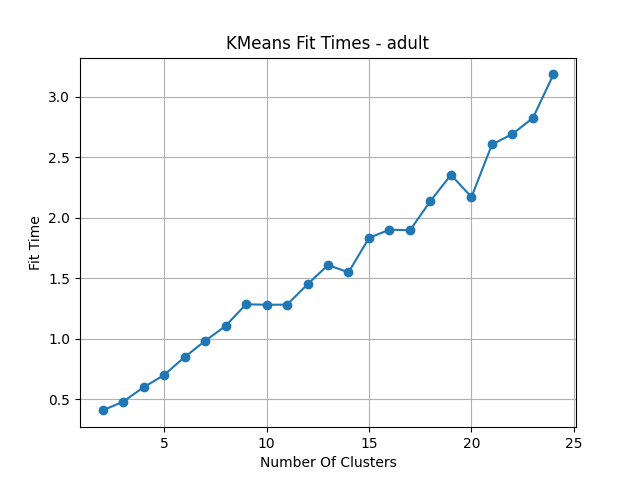
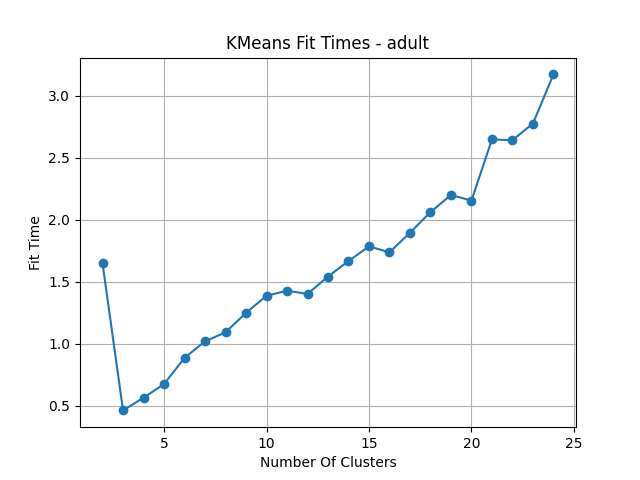
Code updates

Changed region(s): [[0.0625, 0.1562, 0.875, 0.5312], [0.0625, 0.5312, 0.875, 0.875], [0.0625, 0.8125, 0.125, 0.875]]

diff --git a/HW3/NeuralNetwork.py b/HW3/NeuralNetwork.py
@@ -152,6 +152,8 @@ if __name__ == '__main__':
     print('GRP Grid Search: ', grid_search_grp)
     print('MBDL Grid Search: ', grid_search_mbdl)
     '''
+    kmeans = KMeans(n_clusters=3, init='k-means++', random_state=random_seed)
+    em = GaussianMixture(n_components=3, random_state=random_seed)
     kmeans_pca = KMeans(n_clusters=3, init='k-means++', random_state=random_seed)
     kmeans_ica = KMeans(n_clusters=3, init='k-means++', random_state=random_seed)
     kmeans_grp = KMeans(n_clusters=3, init='k-means++', random_state=random_seed)
@@ -161,36 +163,44 @@ if __name__ == '__main__':
     em_grp = GaussianMixture(n_components=3, random_state=random_seed)
     em_mbdl = GaussianMixture(n_components=7, random_state=random_seed)
 
+    kmeans.fit(X_train_1)
     kmeans_pca.fit(X_train_1_pca)
     kmeans_ica.fit(X_train_1_ica)
     kmeans_grp.fit(X_train_1_grp)
     kmeans_mbdl.fit(X_train_1_mbdl)
 
+    X_train_1_km = kmeans.transform(X_train_1)
     X_train_1_pca_km = kmeans_pca.transform(X_train_1_pca)
     X_train_1_ica_km = kmeans_ica.transform(X_train_1_ica)
     X_train_1_grp_km = kmeans_grp.transform(X_train_1_grp)
     X_train_1_mbdl_km = kmeans_mbdl.transform(X_train_1_mbdl)
 
+    X_test_1_km = kmeans.transform(X_test_1)
     X_test_1_pca_km = kmeans_pca.transform(X_test_1_pca)
     X_test_1_ica_km = kmeans_ica.transform(X_test_1_ica)
     X_test_1_grp_km = kmeans_grp.transform(X_test_1_grp)
     X_test_1_mbdl_km = kmeans_mbdl.transform(X_test_1_mbdl)
 
+    em.fit(X_train_1)
     em_pca.fit(X_train_1_pca)
     em_ica.fit(X_train_1_ica)
     em_grp.fit(X_train_1_grp)
     em_mbdl.fit(X_train_1_mbdl)
 
+    X_train_1_em = em.predict_proba(X_train_1)
     X_train_1_pca_em = em_pca.predict_proba(X_train_1_pca)
     X_train_1_ica_em = em_ica.predict_proba(X_train_1_ica)
     X_train_1_grp_em = em_grp.predict_proba(X_train_1_grp)
     X_train_1_mbdl_em = em_mbdl.predict_proba(X_train_1_mbdl)
 
+    X_test_1_em = em.predict_proba(X_test_1)
     X_test_1_pca_em = em_pca.predict_proba(X_test_1_pca)
     X_test_1_ica_em = em_ica.predict_proba(X_test_1_ica)
     X_test_1_grp_em = em_grp.predict_proba(X_test_1_grp)
     X_test_1_mbdl_em = em_mbdl.predict_proba(X_test_1_mbdl)
 
+    grid_search_km = gridSearch(grid_param, clf, X_train_1_km, y_train_1, 'accuracy', dataset_1)
+    grid_search_em = gridSearch(grid_param, clf, X_train_1_em, y_train_1, 'accuracy', dataset_1)
     grid_search_pca = gridSearch(grid_param, clf, X_train_1_pca, y_train_1, 'accuracy', dataset_1)
     grid_search_ica = gridSearch(grid_param, clf, X_train_1_ica, y_train_1, 'accuracy', dataset_1)
     grid_search_grp = gridSearch(grid_param, clf, X_train_1_grp, y_train_1, 'accuracy', dataset_1)
@@ -205,6 +215,8 @@ if __name__ == '__main__':
     grid_search_mbdl_km = gridSearch(grid_param, clf, X_train_1_mbdl_km, y_train_1, 'accuracy', dataset_1)
 
     print('----------------------------------------')
+    print('KMeans Grid Search: ', grid_search_km)
+    print('EM Grid Search: ', grid_search_em)
     print('PCA Grid Search: ', grid_search_pca)
     print('ICA Grid Search: ', grid_search_ica)
     print('GRP Grid Search: ', grid_search_grp)
@@ -235,7 +247,8 @@ if __name__ == '__main__':
         best_clf_grp_em = clf
         best_clf_mbdl_em = clf
     '''
-
+    best_clf_km = grid_search_km[1]
+    best_clf_em = grid_search_em[1]
     best_clf_pca = grid_search_pca[1]
     best_clf_ica = grid_search_ica[1]
     best_clf_grp = grid_search_grp[1]
@@ -249,6 +262,10 @@ if __name__ == '__main__':
     best_clf_grp_em = grid_search_grp_em[1]
     best_clf_mbdl_em = grid_search_mbdl_em[1]
 
+    y_pred_km, y_pred_train_km, learn_tm_km, query_tm_km, query_tm_train_km, rmse_km, rmse_train_km = mlModel(
+        best_clf_km, X_train_1_km, X_test_1_km, y_train_1, y_test_1)
+    y_pred_em, y_pred_train_em, learn_tm_em, query_tm_em, query_tm_train_em, rmse_em, rmse_train_em = mlModel(
+        best_clf_em, X_train_1_em, X_test_1_em, y_train_1, y_test_1)
     y_pred_pca, y_pred_train_pca, learn_tm_pca, query_tm_pca, query_tm_train_pca, rmse_pca, rmse_train_pca = mlModel(
         best_clf_pca, X_train_1_pca, X_test_1_pca, y_train_1, y_test_1)
     y_pred_ica, y_pred_train_ica, learn_tm_ica, query_tm_ica, query_tm_train_ica, rmse_ica, rmse_train_ica = mlModel(
@@ -276,6 +293,18 @@ if __name__ == '__main__':
     y_pred_mbdl_em, y_pred_train_mbdl_em, learn_tm_mbdl_em, query_tm_mbdl_em, query_tm_train_mbdl_em, rmse_mbdl_em, rmse_train_mbdl_em = mlModel(
         best_clf_mbdl_em, X_train_1_mbdl_em, X_test_1_mbdl_em, y_train_1, y_test_1)
 
+    print('----------------------------------------')
+    print("MLP KMeans Accuracy Dataset 1: In Sample", metrics.accuracy_score(y_train_1, y_pred_train_km))
+    print("MLP KMeans Accuracy Dataset 1: Out Sample", metrics.accuracy_score(y_test_1, y_pred_km))
+    print("MLP KMeans Learning Time Dataset 1:", learn_tm_km)
+    print("MLP KMeans Query Time Dataset 1:", query_tm_km)
+    print('----------------------------------------')
+    print('----------------------------------------')
+    print("MLP EM Accuracy Dataset 1: In Sample", metrics.accuracy_score(y_train_1, y_pred_train_em))
+    print("MLP EM Accuracy Dataset 1: Out Sample", metrics.accuracy_score(y_test_1, y_pred_em))
+    print("MLP EM Learning Time Dataset 1:", learn_tm_em)
+    print("MLP EM Query Time Dataset 1:", query_tm_em)
+    print('----------------------------------------')
     print('----------------------------------------')
     print("MLP PCA Accuracy Dataset 1: In Sample", metrics.accuracy_score(y_train_1, y_pred_train_pca))
     print("MLP PCA Accuracy Dataset 1: Out Sample", metrics.accuracy_score(y_test_1, y_pred_pca))
@@ -343,6 +372,10 @@ if __name__ == '__main__':
     '''
     Car:
 ----------------------------------------
+KMeans Grid Search:  ({'activation': 'tanh', 'alpha': 0.0001, 'hidden_layer_sizes': (50, 100, 50), 'solver': 'adam'}, MLPClassifier(activation='tanh', hidden_layer_sizes=(50, 100, 50),
+              random_state=99), 0.7038887555296458)
+EM Grid Search:  ({'activation': 'tanh', 'alpha': 0.0001, 'hidden_layer_sizes': (50, 50, 50), 'solver': 'sgd'}, MLPClassifier(activation='tanh', hidden_layer_sizes=(50, 50, 50),
+              random_state=99, solver='sgd'), 0.7030623092486541)
 PCA Grid Search:  ({'activation': 'tanh', 'alpha': 0.05, 'hidden_layer_sizes': (50, 50, 50), 'solver': 'adam'}, MLPClassifier(activation='tanh', alpha=0.05, hidden_layer_sizes=(50, 50, 50),
               random_state=99), 0.7502314735434312)
 ICA Grid Search:  ({'activation': 'relu', 'alpha': 0.01, 'hidden_layer_sizes': (50, 100, 50), 'solver': 'adam'}, MLPClassifier(alpha=0.01, hidden_layer_sizes=(50, 100, 50), random_state=99), 0.7088577209286375)
@@ -368,69 +401,83 @@ MBDL EM Grid Search:  ({'activation': 'tanh', 'alpha': 0.0001, 'hidden_layer_siz
               random_state=99, solver='sgd'), 0.7030623092486541)
 ----------------------------------------
 
+----------------------------------------
+MLP KMeans Accuracy Dataset 1: In Sample 0.7030603804797353
+MLP KMeans Accuracy Dataset 1: Out Sample 0.6936416184971098
+MLP KMeans Learning Time Dataset 1: 0.6267304420471191
+MLP KMeans Query Time Dataset 1: 0.0019996166229248047
+----------------------------------------
+----------------------------------------
+MLP EM Accuracy Dataset 1: In Sample 0.7030603804797353
+MLP EM Accuracy Dataset 1: Out Sample 0.6936416184971098
+MLP EM Learning Time Dataset 1: 2.853698968887329
+MLP EM Query Time Dataset 1: 0.0020074844360351562
+----------------------------------------
+----------------------------------------
 MLP PCA Accuracy Dataset 1: In Sample 0.7890818858560794
 MLP PCA Accuracy Dataset 1: Out Sample 0.653179190751445
-MLP PCA Learning Time Dataset 1: 3.0513875484466553
-MLP PCA Query Time Dataset 1: 0.0019996166229248047
+MLP PCA Learning Time Dataset 1: 3.0294907093048096
+MLP PCA Query Time Dataset 1: 0.0020189285278320312
 ----------------------------------------
 MLP ICA Accuracy Dataset 1: In Sample 0.7105045492142267
 MLP ICA Accuracy Dataset 1: Out Sample 0.5703275529865125
-MLP ICA Learning Time Dataset 1: 3.76667857170105
-MLP ICA Query Time Dataset 1: 0.0019669532775878906
+MLP ICA Learning Time Dataset 1: 3.6865408420562744
+MLP ICA Query Time Dataset 1: 0.0019974708557128906
 ----------------------------------------
 MLP GRP Accuracy Dataset 1: In Sample 0.7791563275434243
 MLP GRP Accuracy Dataset 1: Out Sample 0.7552986512524085
-MLP GRP Learning Time Dataset 1: 4.194239854812622
-MLP GRP Query Time Dataset 1: 0.0029997825622558594
+MLP GRP Learning Time Dataset 1: 4.129885673522949
+MLP GRP Query Time Dataset 1: 0.003034830093383789
 ----------------------------------------
 MLP MBDL Accuracy Dataset 1: In Sample 0.6699751861042184
 MLP MBDL Accuracy Dataset 1: Out Sample 0.5240847784200385
-MLP MBDL Learning Time Dataset 1: 0.8454082012176514
-MLP MBDL Query Time Dataset 1: 0.0019979476928710938
+MLP MBDL Learning Time Dataset 1: 0.7987163066864014
+MLP MBDL Query Time Dataset 1: 0.0019693374633789062
 ----------------------------------------
 ----------------------------------------
 MLP PCA KMeans Accuracy Dataset 1: In Sample 0.7030603804797353
 MLP PCA KMeans Accuracy Dataset 1: Out Sample 0.6840077071290944
-MLP PCA KMeans Learning Time Dataset 1: 3.5738158226013184
-MLP PCA KMeans Query Time Dataset 1: 0.0019762516021728516
+MLP PCA KMeans Learning Time Dataset 1: 3.4405906200408936
+MLP PCA KMeans Query Time Dataset 1: 0.0019986629486083984
 ----------------------------------------
 MLP ICA KMeans Accuracy Dataset 1: In Sample 0.7030603804797353
 MLP ICA KMeans Accuracy Dataset 1: Out Sample 0.6936416184971098
-MLP ICA KMeans Learning Time Dataset 1: 0.8703763484954834
-MLP ICA KMeans Query Time Dataset 1: 0.0020363330841064453
+MLP ICA KMeans Learning Time Dataset 1: 0.8563556671142578
+MLP ICA KMeans Query Time Dataset 1: 0.0020003318786621094
 ----------------------------------------
 MLP GRP KMeans Accuracy Dataset 1: In Sample 0.7030603804797353
 MLP GRP KMeans Accuracy Dataset 1: Out Sample 0.6936416184971098
-MLP GRP KMeans Learning Time Dataset 1: 2.3734006881713867
-MLP GRP KMeans Query Time Dataset 1: 0.0009655952453613281
+MLP GRP KMeans Learning Time Dataset 1: 2.2791407108306885
+MLP GRP KMeans Query Time Dataset 1: 0.0010008811950683594
 ----------------------------------------
 MLP MBDL KMeans Accuracy Dataset 1: In Sample 0.7030603804797353
 MLP MBDL KMeans Accuracy Dataset 1: Out Sample 0.6936416184971098
-MLP MBDL KMeans Learning Time Dataset 1: 3.6190075874328613
-MLP MBDL KMeans Query Time Dataset 1: 0.002997875213623047
+MLP MBDL KMeans Learning Time Dataset 1: 3.3492400646209717
+MLP MBDL KMeans Query Time Dataset 1: 0.0019989013671875
 ----------------------------------------
 ----------------------------------------
 MLP PCA EM Accuracy Dataset 1: In Sample 0.7030603804797353
 MLP PCA EM Accuracy Dataset 1: Out Sample 0.6936416184971098
-MLP PCA EM Learning Time Dataset 1: 3.1821773052215576
-MLP PCA EM Query Time Dataset 1: 0.002001047134399414
+MLP PCA EM Learning Time Dataset 1: 3.18721866607666
+MLP PCA EM Query Time Dataset 1: 0.001999378204345703
 ----------------------------------------
 MLP ICA EM Accuracy Dataset 1: In Sample 0.7030603804797353
 MLP ICA EM Accuracy Dataset 1: Out Sample 0.6936416184971098
-MLP ICA EM Learning Time Dataset 1: 1.9503438472747803
-MLP ICA EM Query Time Dataset 1: 0.0020003318786621094
+MLP ICA EM Learning Time Dataset 1: 1.8210444450378418
+MLP ICA EM Query Time Dataset 1: 0.0019991397857666016
 ----------------------------------------
 MLP GRP EM Accuracy Dataset 1: In Sample 0.7030603804797353
 MLP GRP EM Accuracy Dataset 1: Out Sample 0.6936416184971098
-MLP GRP EM Learning Time Dataset 1: 0.9249732494354248
-MLP GRP EM Query Time Dataset 1: 0.0019998550415039062
+MLP GRP EM Learning Time Dataset 1: 0.819000244140625
+MLP GRP EM Query Time Dataset 1: 0.002002716064453125
 ----------------------------------------
 MLP MBDL EM Accuracy Dataset 1: In Sample 0.7030603804797353
 MLP MBDL EM Accuracy Dataset 1: Out Sample 0.6936416184971098
-MLP MBDL EM Learning Time Dataset 1: 3.4931564331054688
-MLP MBDL EM Query Time Dataset 1: 0.002001523971557617
+MLP MBDL EM Learning Time Dataset 1: 3.398866653442383
+MLP MBDL EM Query Time Dataset 1: 0.0020313262939453125
 ----------------------------------------
 
 Process finished with exit code 0
+
     '''
 

diff --git a/HW3/KMeans.py b/HW3/KMeans.py
@@ -158,12 +158,10 @@ def plotScatter(X, y, cluster_size, cluster_centers, title, xlabel, ylabel, save
     plt.title(title)
     plt.xlabel(xlabel)
     plt.ylabel(ylabel)
-    '''
     for i in cluster_size:
         plt.scatter(X[y == i, 0], X[y == i, 1], s=50, marker='o', edgecolor='black', label='cluster ' + str(i))
     plt.scatter(cluster_centers[:, 0], cluster_centers[:, 1], s=250, color='yellow', edgecolor='black', marker='*',
                label='centroids')
-    '''
     plt.legend(loc='best')
     plt.grid()
     plt.savefig(savefile)
@@ -186,7 +184,7 @@ if __name__ == '__main__':
     X_1_scaled = scale.fit_transform(X_1)
     X_2_scaled = scale.fit_transform(X_2)
     k = np.arange(2, 25)
-    '''
+
     kMeans(k, X_1_scaled, y_1, dataset_1, random_seed)
     plotSilhouette(2, X_1_scaled, dataset_1, random_seed)
     plotSilhouette(3, X_1_scaled, dataset_1, random_seed)
@@ -207,7 +205,7 @@ if __name__ == '__main__':
     plotSilhouette(10, X_2_scaled, dataset_2, random_seed)
     plotSilhouette(19, X_2_scaled, dataset_2, random_seed)
     plotSilhouette(23, X_2_scaled, dataset_2, random_seed)
-    '''
+
     '''
     car - cluster = 3
     2, 8, 10
